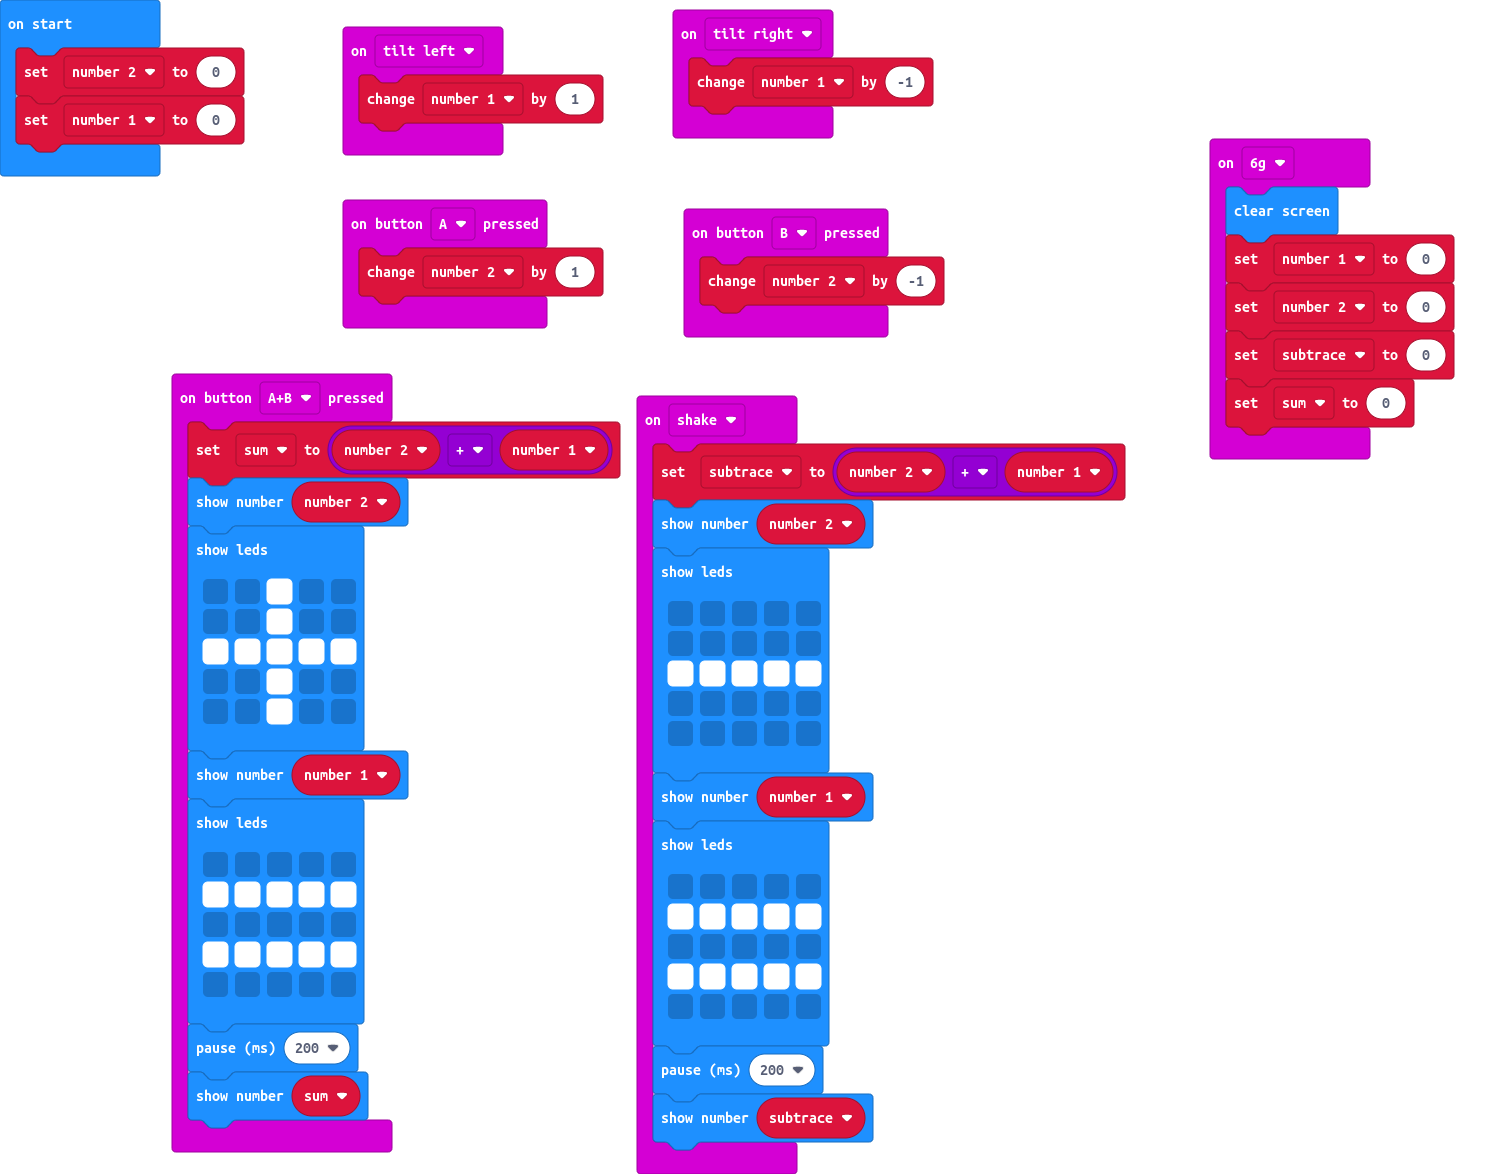
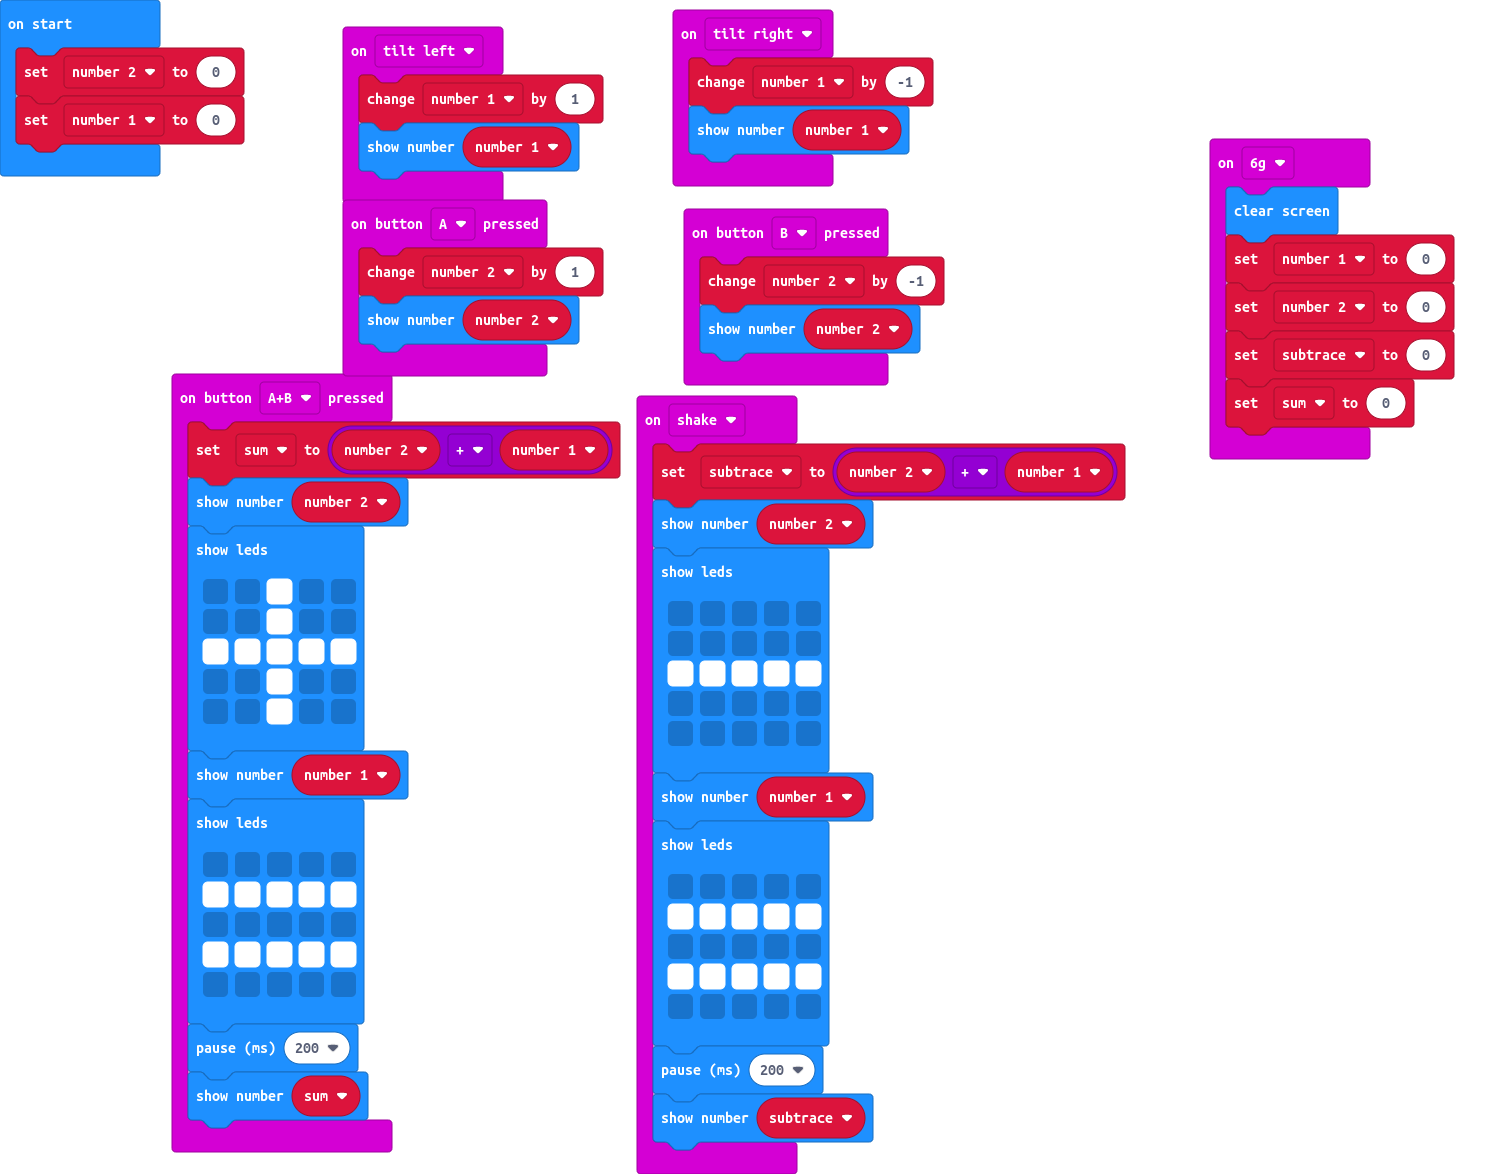
Update main.blocks, main.ts

diff --git a/main.ts b/main.ts
@@ -1,8 +1,10 @@
 input.onButtonPressed(Button.A, function () {
     number_2 += 1
+    basic.showNumber(number_2)
 })
 input.onGesture(Gesture.TiltLeft, function () {
     number_1 += 1
+    basic.showNumber(number_1)
 })
 input.onGesture(Gesture.SixG, function () {
     basic.clearScreen()
@@ -34,6 +36,7 @@ input.onButtonPressed(Button.AB, function () {
 })
 input.onButtonPressed(Button.B, function () {
     number_2 += -1
+    basic.showNumber(number_2)
 })
 input.onGesture(Gesture.Shake, function () {
     subtrace = number_2 + number_1
@@ -58,6 +61,7 @@ input.onGesture(Gesture.Shake, function () {
 })
 input.onGesture(Gesture.TiltRight, function () {
     number_1 += -1
+    basic.showNumber(number_1)
 })
 let sum = 0
 let subtrace = 0
